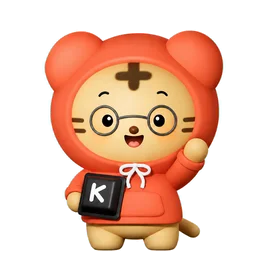
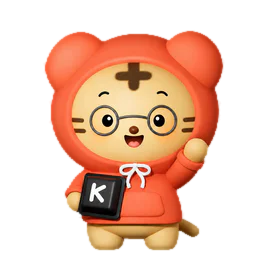
Mascot: no light fringe on dark backgrounds (erode the white-blended edge, bleed inner colour under transparency); keep the keying script

diff --git a/scripts/mascot_key.py b/scripts/mascot_key.py
@@ -1,0 +1,52 @@
+"""호빗 움직이는 그림(public/mascot/*.webp) 만들 때 쓴 배경 지우기 — 원본 mp4는 hobit_renewal/mascot_src/
+
+만드는 순서: ffmpeg로 280px 전체 프레임 → 첫·끝 프레임을 포함해 76장 고르게 뽑기 → 이 스크립트 →
+  img2webp -loop 1 -lossy -q 65 -m 6 -d 67 (76장 × 67ms = Mascot.tsx CLIP_MS)
+
+흰 배경(테두리와 이어진 부분만) → 투명. 어두운 배경에서 흰 테두리가 안 보이게:
+1) 흰색이 섞인 바깥 1px은 깎고(알파 침식) 살짝 부드럽게
+2) 투명·반투명 픽셀의 색은 안쪽 색으로 채움 (손실 압축이 테두리 색을 투명 부분의 엉뚱한 색과 섞지 않게)
+사용: key2.py 입력폴더 출력폴더"""
+import sys, glob, os
+import numpy as np
+from PIL import Image, ImageDraw, ImageFilter
+src, dst = sys.argv[1], sys.argv[2]
+os.makedirs(dst, exist_ok=True)
+LO, HI = 205, 248
+for f in sorted(glob.glob(f"{src}/*.png")):
+    rgb = np.asarray(Image.open(f).convert("RGB")).astype(np.float32)
+    v = rgb.min(axis=2)
+    cand = Image.fromarray(((v >= LO) * 255).astype(np.uint8)).copy()
+    h, w = v.shape
+    for x in range(0, w, 8):
+        for y in (0, h - 1):
+            if cand.getpixel((x, y)) == 255: ImageDraw.floodfill(cand, (x, y), 128)
+    for y in range(0, h, 8):
+        for x in (0, w - 1):
+            if cand.getpixel((x, y)) == 255: ImageDraw.floodfill(cand, (x, y), 128)
+    bg = np.asarray(cand) == 128
+    a = np.ones_like(v)
+    a[bg] = np.clip((HI - v[bg]) / (HI - LO), 0, 1)
+    am = Image.fromarray((a * 255).astype(np.uint8)).filter(ImageFilter.MinFilter(3)).filter(ImageFilter.GaussianBlur(0.6))
+    a2 = np.asarray(am).astype(np.float32) / 255
+    a2 = np.minimum(a2, a)  # 침식 결과가 원래보다 불투명해지지 않게
+    # 안쪽(완전 불투명) 색으로 바깥을 채움 — 아는 픽셀 이웃 평균으로 한 칸씩 넓힘 (6칸이면 테두리 압축 범위를 덮음)
+    solid = a2 >= 0.99
+    known = solid.copy()
+    fill_c = np.where(known[..., None], rgb, 0.0)
+    for _ in range(6):
+        acc = np.zeros_like(fill_c); cnt = np.zeros(known.shape, np.float32)
+        for dy in (-1, 0, 1):
+            for dx in (-1, 0, 1):
+                if dy == dx == 0: continue
+                k = np.roll(np.roll(known, dy, 0), dx, 1)
+                acc += np.roll(np.roll(fill_c, dy, 0), dx, 1) * k[..., None]
+                cnt += k
+        new = (~known) & (cnt > 0)
+        fill_c[new] = acc[new] / cnt[new][:, None]
+        known |= new
+    fill_c[~known] = rgb[solid].mean(axis=0) if solid.any() else 0
+    solid = solid[..., None]
+    out = np.where(solid > 0, rgb, np.clip(fill_c, 0, 255))
+    rgba = np.dstack([out, a2 * 255]).astype(np.uint8)
+    Image.fromarray(rgba, "RGBA").save(f"{dst}/{os.path.basename(f)}")
